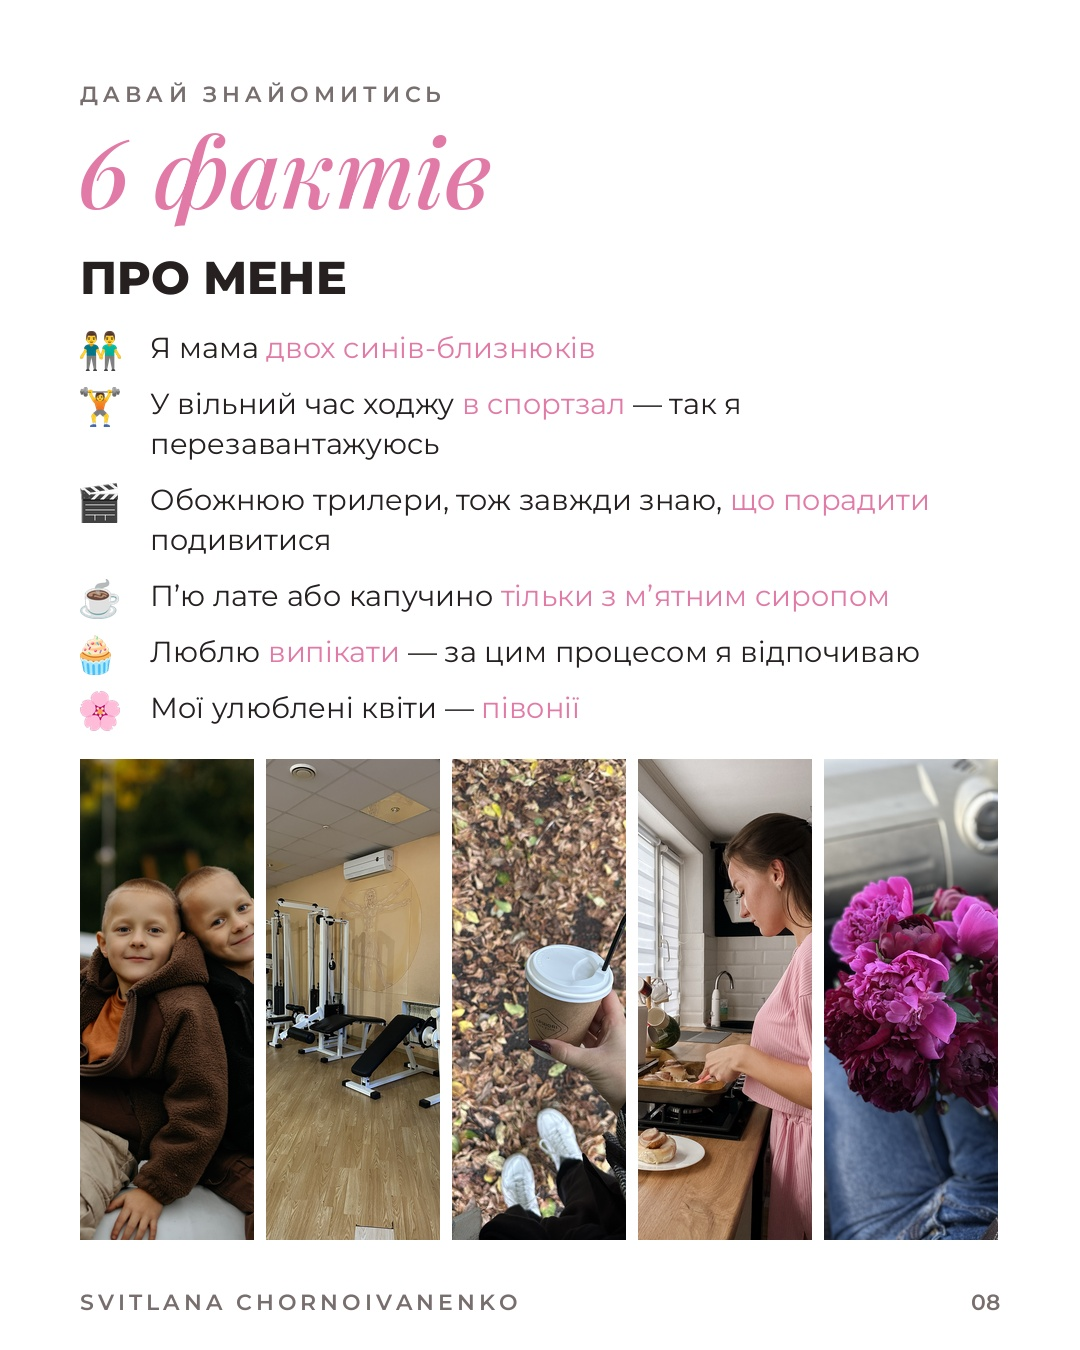
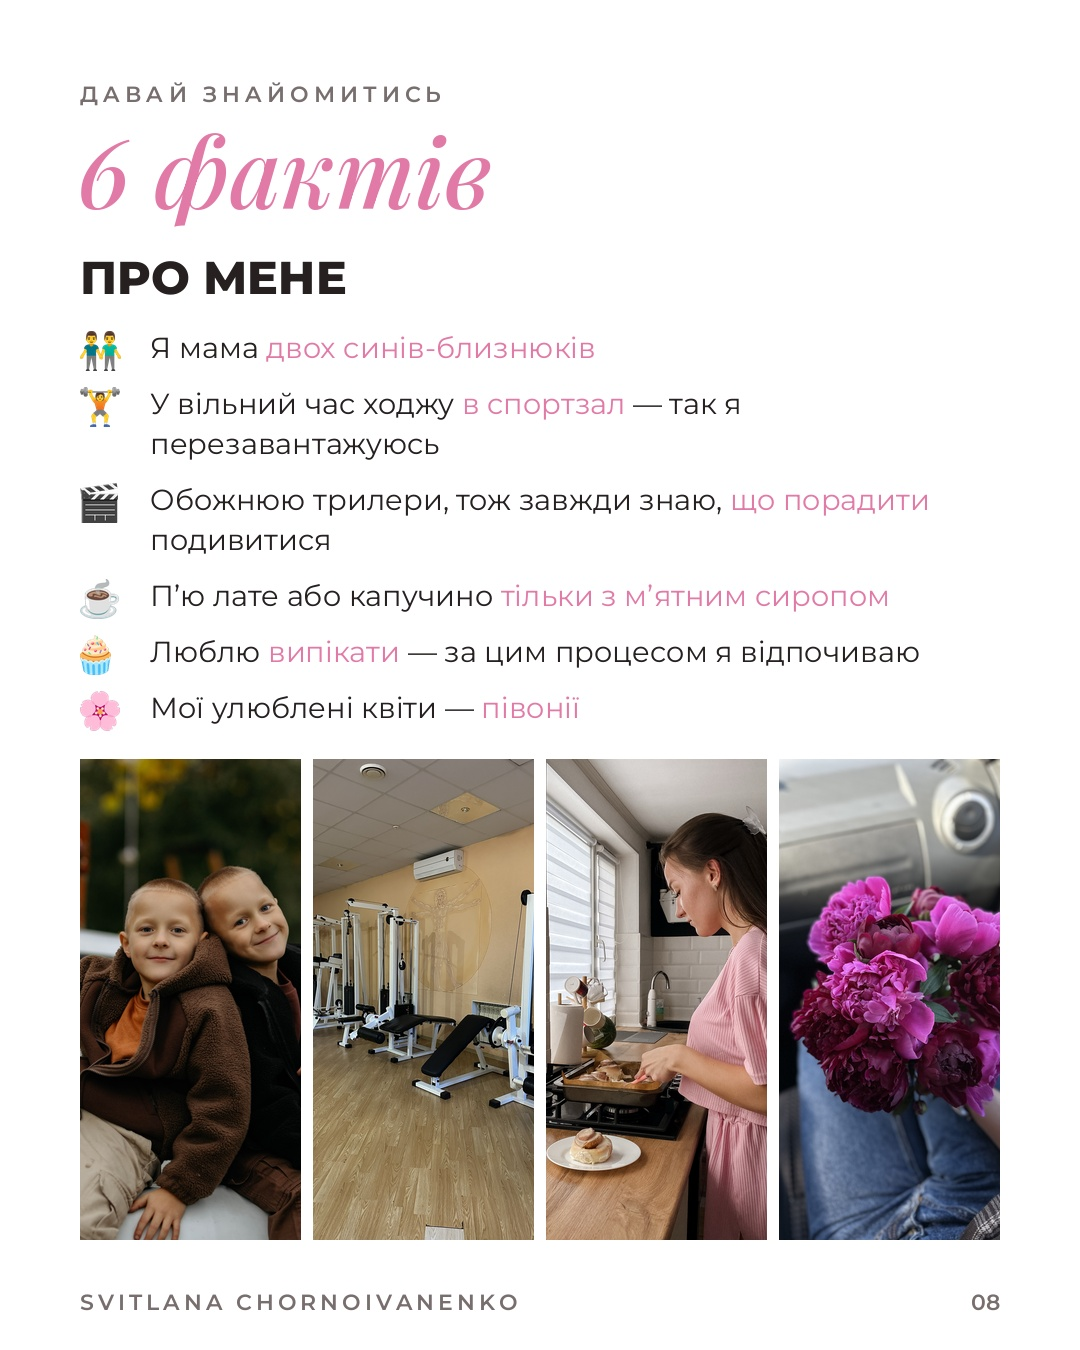
Intro slide 8: four photos
Claude-Session: https://claude.ai/code/session_0191xVL2hi5vHUvM1ix6pauC

Changed region(s): [[0.0611, 0.56, 0.9472, 0.9333]]

diff --git a/karusel_znaiomstvo/build.py b/karusel_znaiomstvo/build.py
@@ -139,8 +139,8 @@ facts = [('👬', 'Я мама *двох синів-близнюків*'),
          ('🧁', 'Люблю *випікати* — за цим процесом я відпочиваю'),
          ('🌸', 'Мої улюблені квіти — *півонії*')]
 y = bullet_list(c, d, y - 10, facts, emo_h=40, size=29, gap=16)
-top = y + 14; h = H - 110 - top; w = (920 - 4 * 12) // 5
-for i, (n, fx, fy) in enumerate([('9492eed1-image.jpg', 0.5, 0.35), ('5588a665-image.jpg', 0.5, 0.5), ('c5beda91-image.jpg', 0.55, 0.45),
+top = y + 14; h = H - 110 - top; w = (920 - 3 * 12) // 4
+for i, (n, fx, fy) in enumerate([('9492eed1-image.jpg', 0.5, 0.35), ('5588a665-image.jpg', 0.5, 0.5),
                                 ('6795168f-image.jpg', 0.6, 0.4), ('719150ba-image.jpg', 0.5, 0.4)]):
     tile(c, Image.open(f'{U}/{n}').convert('RGB'), 80 + i * (w + 12), top, w, h, fx, fy)
 d = ImageDraw.Draw(c); foot(d, 8); c.save(f'{OUT}/08.jpg', quality=95)
